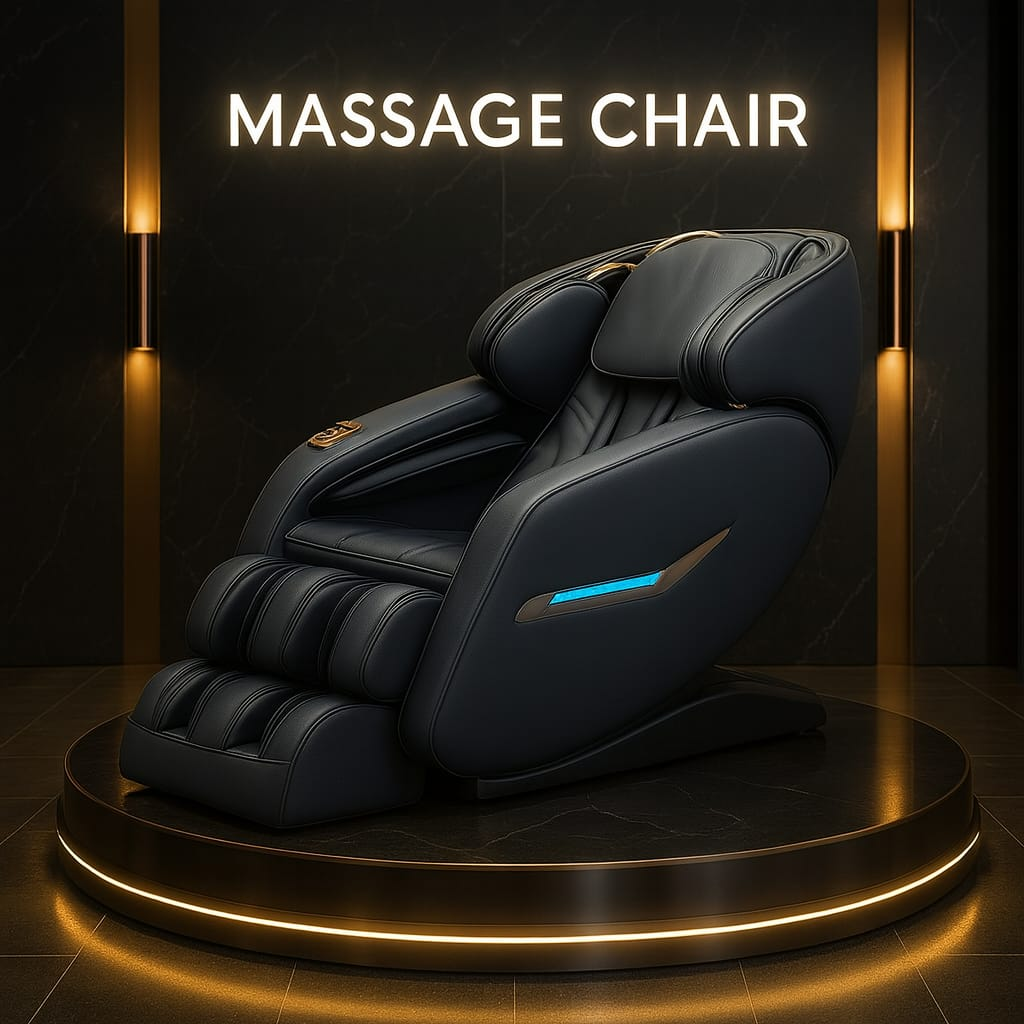
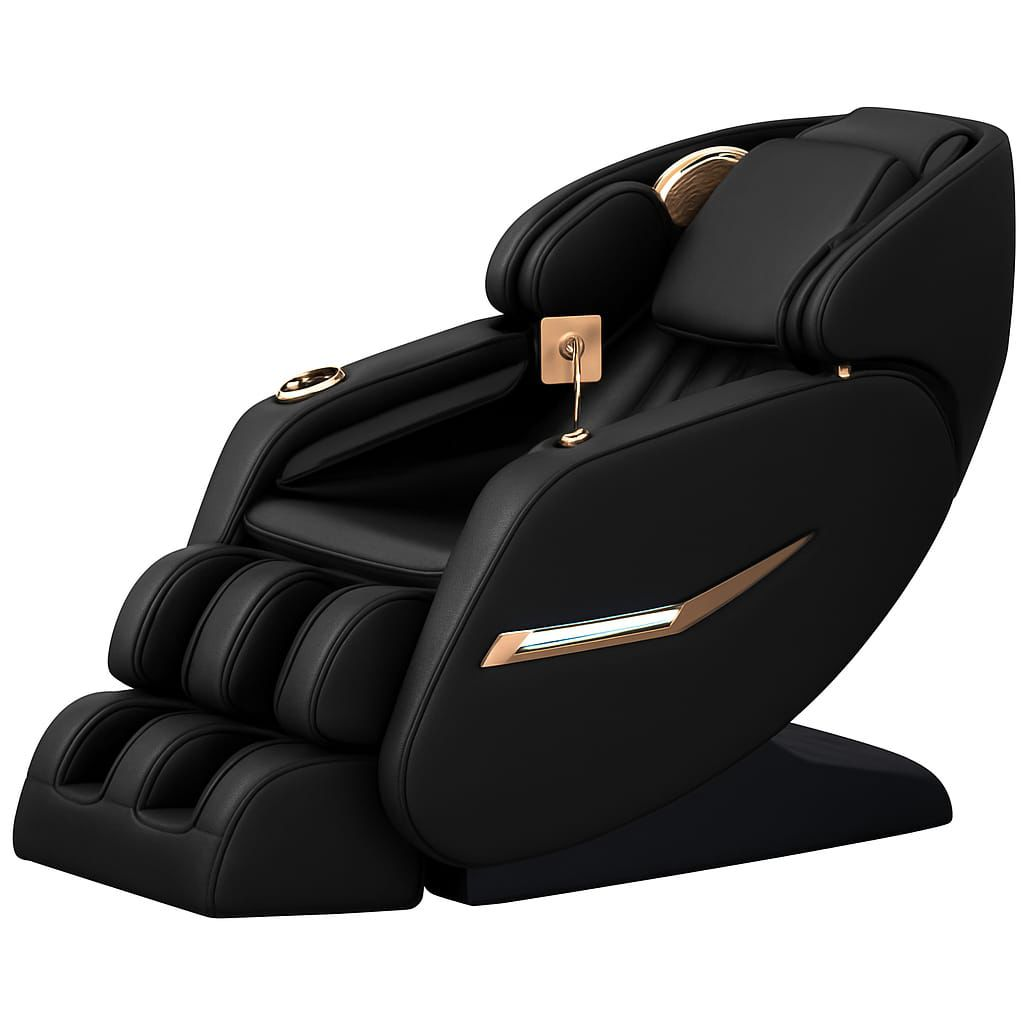
גלריה 3 תמונות + ביטול כפתור חזרה
- כפתור החץ בראש העמוד לא פעיל (ללא הפניה)
- גלריית מוצר: 3 תמונות WebP במקום 7
- עדכון תג 3 תמונות ו-thumbnails

diff --git a/index.html b/index.html
@@ -34,9 +34,9 @@
         <div class="container">
             <div class="row py-3 align-items-center">
                 <div class="col-2 text-start">
-                    <a href="https://vipogroup.github.io/vipo-products/" class="back-button" aria-label="חזרה לדף הקודם">
+                    <button type="button" class="back-button back-button--inactive" aria-label="חזרה" disabled>
                         <i class="fas fa-arrow-right"></i>
-                    </a>
+                    </button>
                 </div>
                 <div class="col-8 text-center">
                     <a href="https://vipocatalog.github.io/LTD/?lang=he" target="_blank" class="btn btn-lg logo-btn animate__animated animate__fadeIn">
@@ -64,7 +64,7 @@
                         <div class="main-image-container">
                             <img id="mainImage" src="assets/images/1.webp" alt="כורסת עיסוי VC">
                             <div class="gallery-badge">
-                                <i class="fas fa-images"></i> 7 תמונות
+                                <i class="fas fa-images"></i> 3 תמונות
                             </div>
                         </div>
                     </div>
@@ -114,20 +114,8 @@
                         <div class="thumbnail" data-src="assets/images/3.webp">
                             <img src="assets/images/3.webp" alt="תמונה 3">
                         </div>
-                        <div class="thumbnail" data-src="assets/images/4.webp">
-                            <img src="assets/images/4.webp" alt="תמונה 4">
-                        </div>
-                        <div class="thumbnail" data-src="assets/images/5.webp">
-                            <img src="assets/images/5.webp" alt="תמונה 5">
-                        </div>
-                        <div class="thumbnail" data-src="assets/images/6.webp">
-                            <img src="assets/images/6.webp" alt="תמונה 6">
-                        </div>
-                        <div class="thumbnail" data-src="assets/images/7.webp">
-                            <img src="assets/images/7.webp" alt="תמונה 7">
-                        </div>
                         <div class="thumbnail video-thumbnail" data-video="assets/1.mp4" style="position:relative">
-                            <img src="assets/images/5.webp" alt="וידאו" style="opacity:0.85">
+                            <img src="assets/images/1.webp" alt="וידאו" style="opacity:0.85">
                             <div class="thumb-play"><i class="fas fa-play"></i></div>
                         </div>
                     </div>
@@ -658,7 +646,7 @@
                         badge.style.padding = '5px 10px';
                         badge.style.borderRadius = '15px';
                         badge.style.fontSize = '0.8em';
-                        badge.innerHTML = '<i class="fas fa-images"></i> 7 תמונות';
+                        badge.innerHTML = '<i class="fas fa-images"></i> 3 תמונות';
                         mainContainer.appendChild(badge);
                     }
                 }
@@ -748,7 +736,7 @@
                             badge.style.padding = '5px 10px';
                             badge.style.borderRadius = '15px';
                             badge.style.fontSize = '0.8em';
-                            badge.innerHTML = '<i class="fas fa-images"></i> 7 תמונות';
+                            badge.innerHTML = '<i class="fas fa-images"></i> 3 תמונות';
                             
                             // Add elements to container
                             videoContainer.appendChild(video);

diff --git a/assets/css/premium-v4.css b/assets/css/premium-v4.css
@@ -119,6 +119,19 @@ body.v4-page::before { display: none !important; }
     background: var(--lp-blue-muted);
 }
 
+.v4-page .back-button--inactive,
+.v4-page .back-button--inactive:disabled {
+    opacity: 0.35;
+    cursor: default;
+    pointer-events: none;
+}
+
+.v4-page .back-button--inactive:hover {
+    border-color: var(--lp-line);
+    color: var(--lp-ink-secondary);
+    background: var(--lp-white);
+}
+
 /* ── Video ── */
 .v4-page .video-gallery-container {
     padding: 16px 0 0 !important;